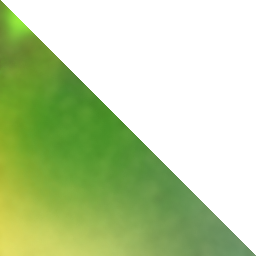
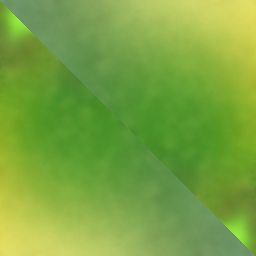
Fixed colorizers

diff --git a/blocks.py b/blocks.py
@@ -4,6 +4,7 @@
 
 # Future imports
 from __future__ import unicode_literals
+from math import floor
 
 # Python packages
 # Nothing for now...
@@ -350,7 +351,7 @@ class GrassBlock(Block):
             self.color_data = self.color_data.get_data('RGB', self.color_data.width * 3)
 
         def get_color(self, temperature, humidity):
-            pos = int(humidity * 256 * BYTE_PER_LINE + 3 * (1-temperature) * 256) + 1
+            pos = int(floor(humidity * 255) * BYTE_PER_LINE + 3 * floor((1-temperature) * 255))
             return float(ord(self.color_data[pos])) / 255, float(ord(self.color_data[pos + 1])) / 255, float(ord(self.color_data[pos + 2])) / 255
 
     texture_name = "grass_top", "dirt", "grass_side"
@@ -690,7 +691,7 @@ class LeafBlock(Block):
             self.color_data = self.color_data.get_data('RGB', self.color_data.width * 3)
 
         def get_color(self, temperature, humidity):
-            pos = int(humidity * 256 * BYTE_PER_LINE + 3 * (1-temperature) * 256) + 1
+            pos = int(floor(humidity * 255) * BYTE_PER_LINE + 3 * floor((1-temperature) * 255))
             return float(ord(self.color_data[pos])) / 255, float(ord(self.color_data[pos + 1])) / 255, float(ord(self.color_data[pos + 2])) / 255
 
     break_sound = sounds.leaves_break

diff --git a/world.py b/world.py
@@ -185,10 +185,7 @@ class World(dict):
             humidity = self.biome_generator.get_humidity(position[0], position[-1])
             self._shown[position] = batch.add(count, GL_QUADS, block.group or self.group,
                                           ('v3f/static', vertex_data),
-                                          ('t2f/static', texture_data),
-                                          ('c3f/static', block.get_color(2, 0.4)))
-                                        # can't do this yet
-                                          #('c3f/static', block.get_color(temp, humidity)))
+                                          ('c3f/static', block.get_color(temp, humidity)))
         else:
             self._shown[position] = batch.add(count, GL_QUADS, block.group or self.group,
                                           ('v3f/static', vertex_data),
